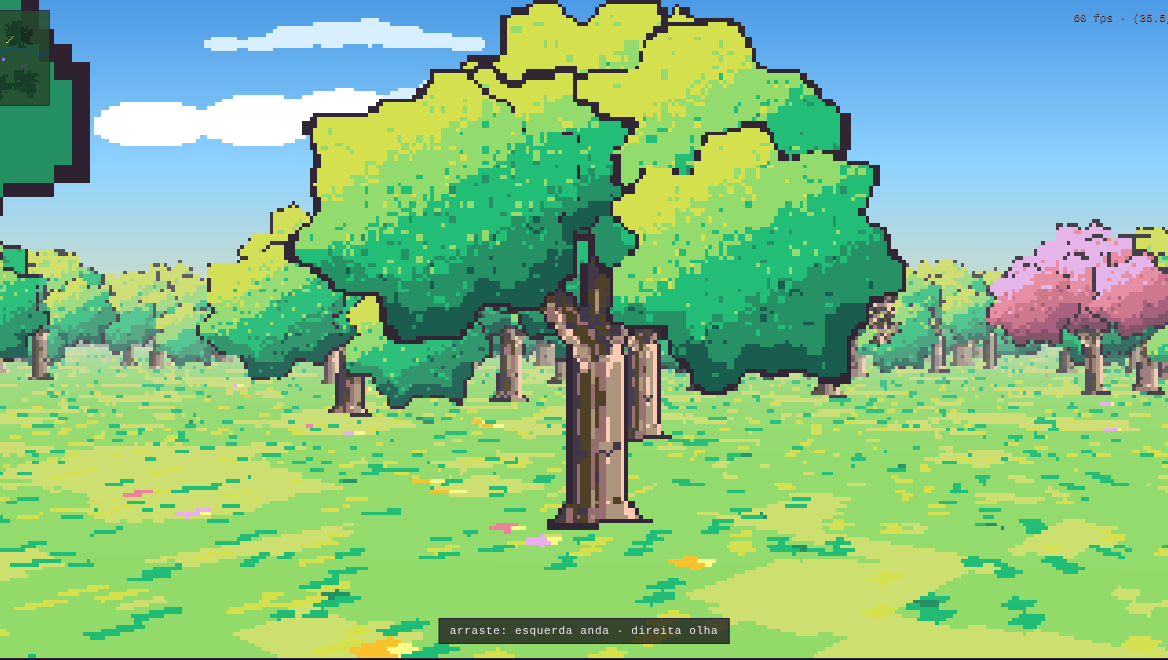
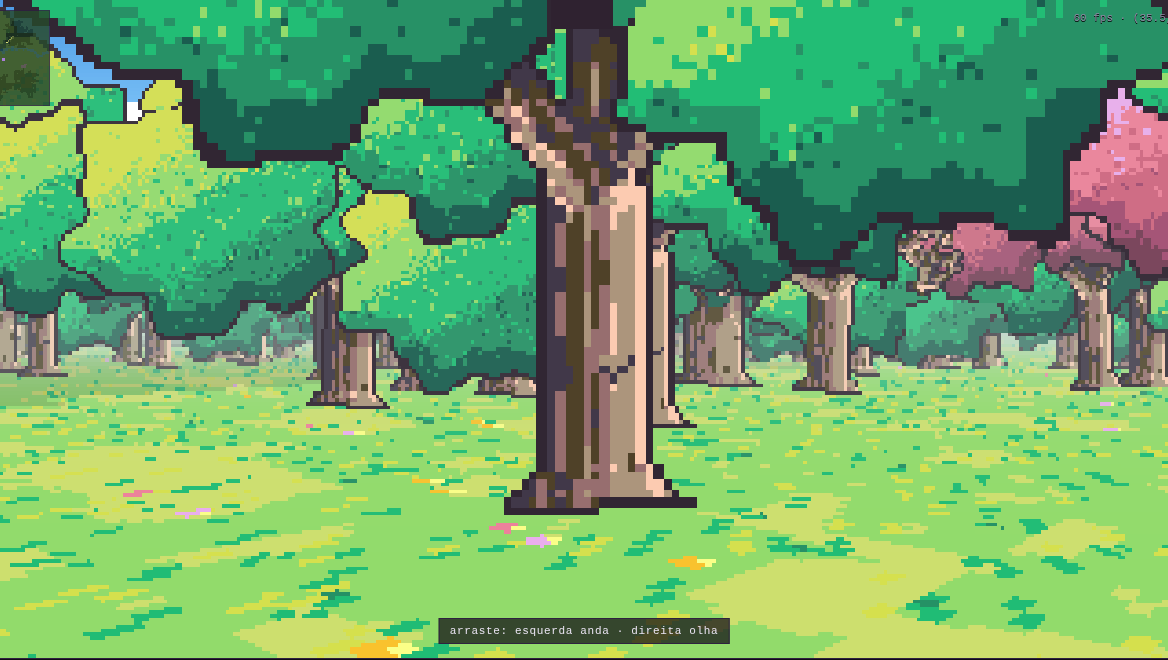
protótipo: árvores em escala humana — 4.3-5.7 tiles de altura
O jogador media quase meia árvore ('me sentindo um gigante'). Agora as
copas ficam ~9-11x acima do olho (0.5 tile): dentro da floresta o dossel
cobre o céu e o tronco é uma coluna. Arbustos acompanharam de leve.

Claude-Session: https://claude.ai/code/session_011RMb7NFMQktSfEYCn3A41e

diff --git a/prototipos/fps/nos-fps.html b/prototipos/fps/nos-fps.html
@@ -867,7 +867,7 @@ for (let ty = 0; ty < world.h; ty++) {
       let v = TREE_VARIANTS[(h * TREE_VARIANTS.length) | 0];
       if (hs < 0.05) v = TREE_CEREJEIRA;            // bosquinho rosa raro
       else if (hs > 0.975) v = TREE_SECA;           // seca solitária
-      bills.push({ x: tx + 0.5 + jx, y: ty + 0.5 + jy, genFrames: v, label: 'arvore', scale: 2.3 + h * 0.7, lift: 0, phase: hash2(tx * 7, ty * 3) * Math.PI * 2, swaySpeed: 1600 });
+      bills.push({ x: tx + 0.5 + jx, y: ty + 0.5 + jy, genFrames: v, label: 'arvore', scale: 4.3 + h * 1.4, lift: 0, phase: hash2(tx * 7, ty * 3) * Math.PI * 2, swaySpeed: 1600 });
     } else if (t === 'm') {
       const ht = hash2(tx * 29, ty * 31);
       if (ht < 0.22) { // graminha balançando — objeto, não textura
@@ -885,7 +885,7 @@ for (let ty = 0; ty < world.h; ty++) {
         bills.push({
           x: tx + 0.5 + (hash2(tx * 109, ty * 113) - 0.5) * 0.6,
           y: ty + 0.5 + (hash2(tx * 127, ty * 131) - 0.5) * 0.6,
-          genFrames: vb, label: 'arbusto', scale: 0.5 + hb * 4, lift: 0,
+          genFrames: vb, label: 'arbusto', scale: 0.7 + hb * 5, lift: 0,
           phase: hash2(tx * 137, ty * 139) * Math.PI * 2, swaySpeed: 900,
         });
       }
